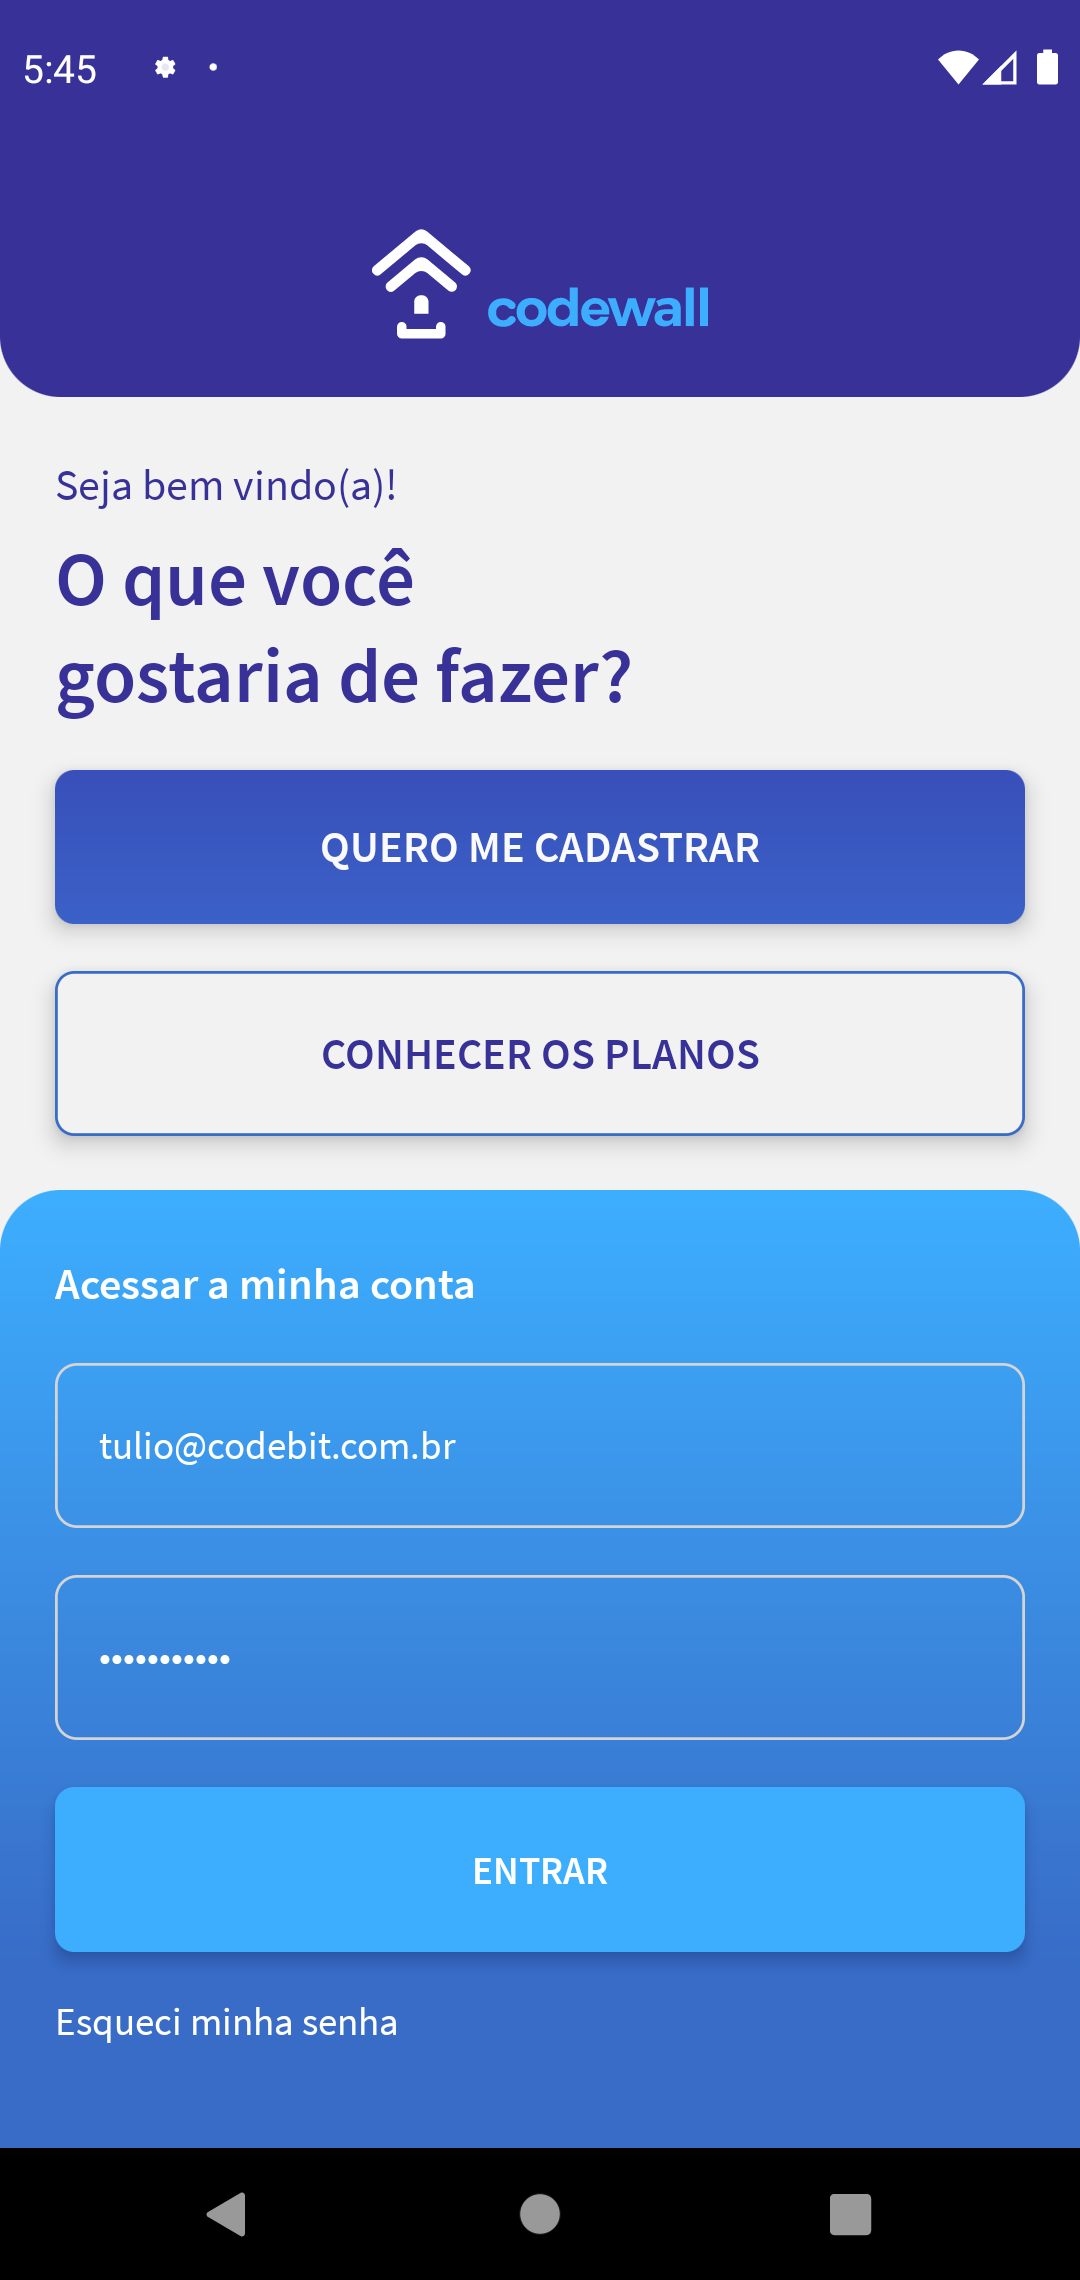
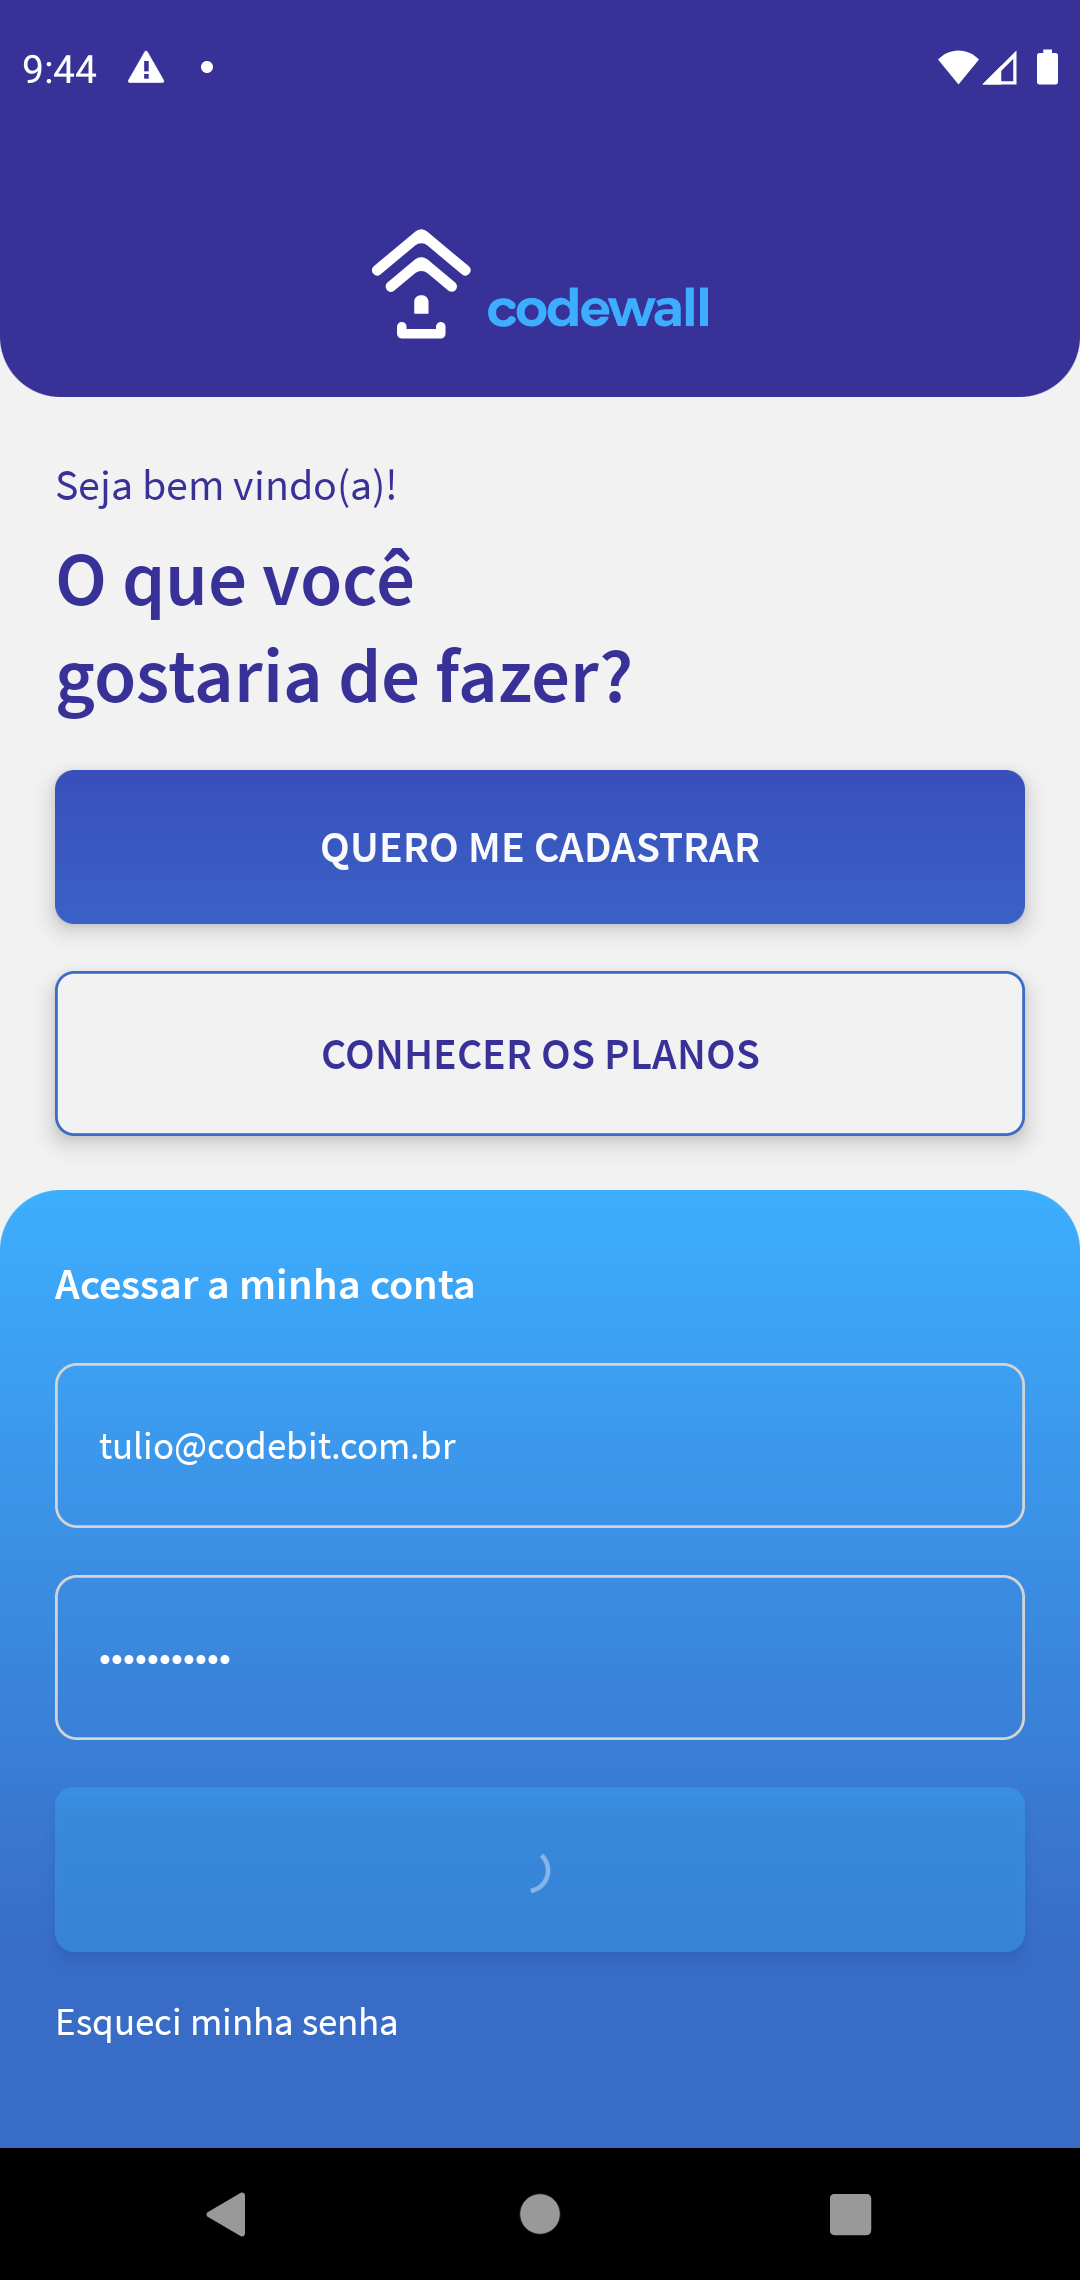
Login completed

Changed region(s): [[0.0306, 0.7785, 0.9472, 0.8719], [0.1222, 0.0, 0.1528, 0.0623]]

diff --git a/src/main/java/org/tl/codebit/appium/test/LoginTest.java b/src/main/java/org/tl/codebit/appium/test/LoginTest.java
@@ -1,6 +1,7 @@
 package org.tl.codebit.appium.test;
 
 import org.junit.Test;
+import org.openqa.selenium.By;
 import org.tl.codebit.appium.core.BaseTest;
 import org.tl.codebit.appium.pages.LoginPage;
 
@@ -15,5 +16,6 @@ public class LoginTest extends BaseTest {
         page.passInitialBanner();
         page.writeEmail("tulio@codebit.com.br");
         page.writePassword("Codebit@123");
+        page.clickRealizeLogin();
     }
 }

diff --git a/src/main/java/org/tl/codebit/appium/core/BasePage.java b/src/main/java/org/tl/codebit/appium/core/BasePage.java
@@ -21,6 +21,10 @@ public class BasePage {
         getDriver().findElement(By.xpath("//*[@text='"+text+"']")).sendKeys(msg);
     }
 
+    public void clickByPlaceholder(String text) throws MalformedURLException {
+        getDriver().findElement(By.xpath("//*[@text='"+text+"']")).click();
+    }
+
     public String getText(By by) throws MalformedURLException {
         return getDriver().findElement(by).getText();
     }

diff --git a/src/main/java/org/tl/codebit/appium/pages/LoginPage.java b/src/main/java/org/tl/codebit/appium/pages/LoginPage.java
@@ -26,4 +26,9 @@ public class LoginPage extends BasePage {
     public void writePassword(String senha) throws MalformedURLException {
         writeByPlaceholder("Digite sua senha", senha);
     }
+
+    public void clickRealizeLogin() throws MalformedURLException {
+        clickByPlaceholder("ENTRAR");
+    };
+
 }
